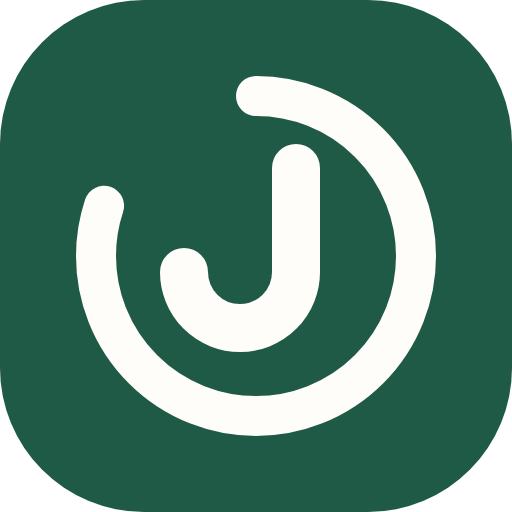
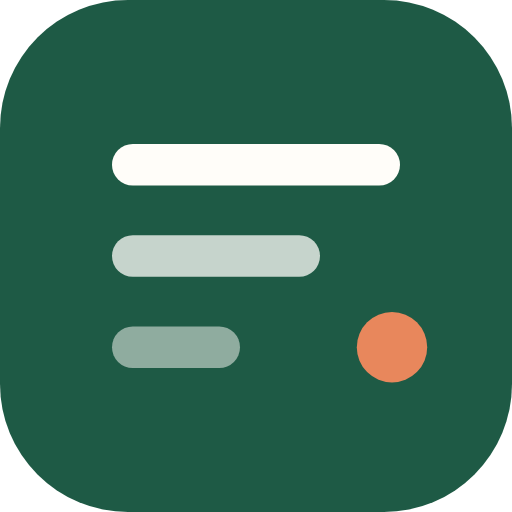
New brand mark: three ranked bars and a terracotta dot
Replaces the ring-and-J mark, which read as an emoji. Favicon, app
icons, og.png and the outlined logo are re-rendered from brand/mark.svg.

diff --git a/web/src/components/ui/Logo.tsx b/web/src/components/ui/Logo.tsx
@@ -14,7 +14,7 @@ interface Props {
 // The brand name is not translated, so it is a constant rather than i18n copy.
 const NAME = 'JOffers'
 
-// Mark geometry is brand/mark.svg (§2.1), flat since the visual refresh. Colours come from --mark-* through style,
+// Mark geometry is brand/mark.svg (ranked bars + dot since the visual refresh). Colours come from --mark-* through style,
 // because SVG presentation attributes don't resolve var().
 export function Logo({ size = 32, showWordmark = true, decorative = false, className }: Props) {
   // With the wordmark shown the text names the logo, so the mark itself stays silent.
@@ -32,11 +32,14 @@ export function Logo({ size = 32, showWordmark = true, decorative = false, class
         height={size}
         {...(labelled ? { role: 'img', 'aria-label': NAME } : { 'aria-hidden': true, focusable: false })}
       >
-        <rect width="32" height="32" rx="9" style={{ fill: 'var(--mark-bg)' }} />
-        <g fill="none" strokeLinecap="round" style={{ stroke: 'var(--mark-ink)' }}>
-          <circle cx="16" cy="16" r="10" strokeWidth="2.5" strokeDasharray="50.3 12.6" transform="rotate(-90 16 16)" />
-          <path d="M18.5 10.5v6.5a3.5 3.5 0 0 1-7 0" strokeWidth="3" strokeLinejoin="round" />
+        <rect width="32" height="32" rx="8" style={{ fill: 'var(--mark-bg)' }} />
+        {/* Three offers ranked by match, best on top; the dot is the one worth opening. */}
+        <g style={{ fill: 'var(--mark-ink)' }}>
+          <rect x="7" y="9" width="18" height="2.6" rx="1.3" />
+          <rect x="7" y="14.7" width="13" height="2.6" rx="1.3" opacity=".75" />
+          <rect x="7" y="20.4" width="8" height="2.6" rx="1.3" opacity=".5" />
         </g>
+        <circle cx="24.5" cy="21.7" r="2.2" style={{ fill: 'var(--mark-dot)' }} />
       </svg>
       {/* translate="no": page translators would otherwise rewrite the brand name. */}
       {showWordmark && (

diff --git a/web/src/components/ui/controls.test.ts b/web/src/components/ui/controls.test.ts
@@ -48,13 +48,12 @@ describe('Logo', () => {
     expect(html).not.toContain('role="img"')
   })
 
-  test('geometry and colours follow §2.1 and the --mark tokens', () => {
+  test('geometry and colours follow brand/mark.svg and the --mark tokens', () => {
     const html = render(el(Logo, { size: 24 }))
-    expect(html).toContain('rx="9"')
-    expect(html).toContain('stroke-dasharray="50.3 12.6"')
-    expect(html).toContain('transform="rotate(-90 16 16)"')
-    expect(html).toContain('d="M18.5 10.5v6.5a3.5 3.5 0 0 1-7 0"')
+    expect(html).toContain('rx="8"')
+    expect(html.match(/<rect x="7"/g)).toHaveLength(3)
     expect(html).toContain('fill:var(--mark-bg)')
+    expect(html).toContain('fill:var(--mark-dot)')
     expect(html).not.toContain('Gradient')
     expect(html).toContain('--logo-size:24px')
   })

diff --git a/web/src/styles/tokens.css b/web/src/styles/tokens.css
@@ -29,10 +29,12 @@
 }
 
 /* Brand mark (§2.1): flat, the same in both themes, so plain values rather than light-dark().
-   A bottle-green squircle with the ivory ring and J; og.png uses the same pair. */
+   A bottle-green squircle with three ivory bars, shortest last (offers ranked by match),
+   and a terracotta dot; og.png uses the same colours. */
 :root {
   --mark-bg: #1E5A45;
   --mark-ink: #FFFDF9;
+  --mark-dot: #E8875C;
 }
 
 :root {
